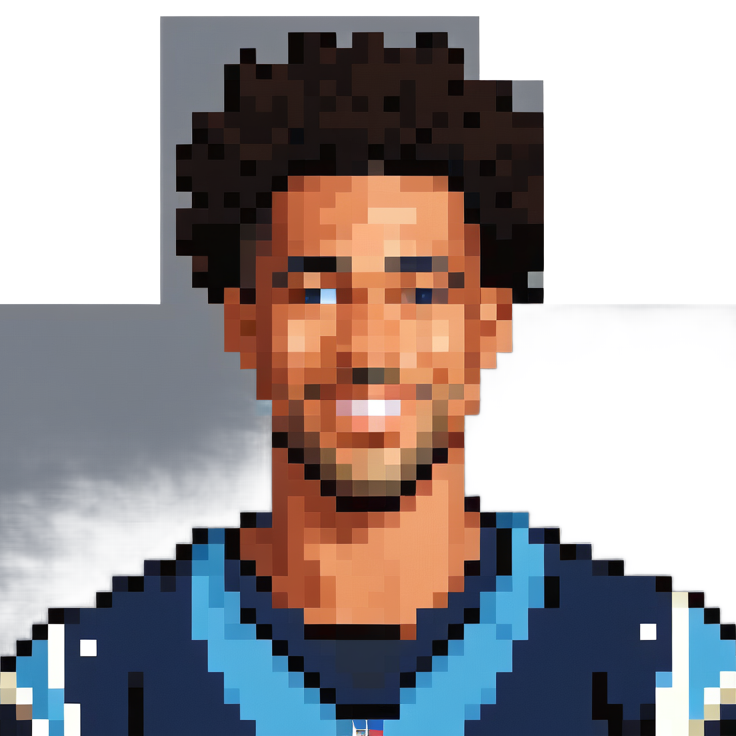
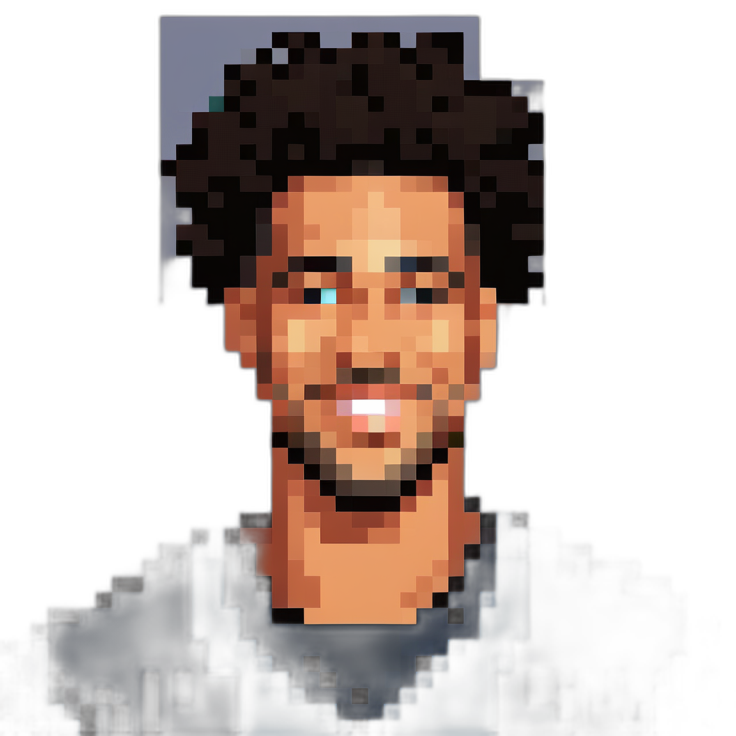
pipeline: expose --seed on ingest-pixel-headshots for re-rolls
Generation is stochastic; when a player's first run has artifacts
(bad bg removal, weird eyes) the workflow is to re-roll with a
different seed before changing the recipe. Defaults to 99 (the
prior hardcoded value) so existing assets stay reproducible.
Also re-rolls player 2997's headshot.

diff --git a/pipeline/src/nfl_grades/ingest/pixel_headshots.py b/pipeline/src/nfl_grades/ingest/pixel_headshots.py
@@ -266,15 +266,25 @@ def _to_url(replicate_output: object) -> str:
 # --- Replicate calls -------------------------------------------------------
 
 
+DEFAULT_SEED = 99
+
+
 def _stylize_and_remove_bg(
     replicate_client,
     source_url: str,
     position: str,
     team_abbr: str | None,
+    seed: int = DEFAULT_SEED,
 ) -> Image.Image:
     """One full Variant G generation: face-to-many → bg removal. Returns
     a square-cropped PIL Image at ~736x736 RGBA. Throttles before each
-    API call to stay under Replicate's free-tier rate limit."""
+    API call to stay under Replicate's free-tier rate limit.
+
+    `seed` is exposed because the model is stochastic — when a player's
+    initial generation has artifacts (bad bg removal, weird eyes), the
+    standard fix is to re-roll with a different seed before changing
+    the recipe.
+    """
     team_for_prompt = team_abbr or "NE"  # arbitrary fallback if team unknown
     prompt = _build_prompt(position, team_for_prompt)
 
@@ -290,7 +300,7 @@ def _stylize_and_remove_bg(
             "denoising_strength": 0.65,
             "instant_id_strength": 0.85,
             "control_depth_strength": 0.6,
-            "seed": 99,
+            "seed": seed,
         },
     )
     stylized_url = _to_url(stylized)
@@ -355,6 +365,7 @@ def run(
     qualified_only: bool = True,
     player_id: int | None = None,
     force: bool = False,
+    seed: int = DEFAULT_SEED,
 ) -> RunResult:
     """Generate pixel headshots for the targeted players. See module docstring."""
     import replicate  # imported here so the module is cheap to load even
@@ -413,7 +424,7 @@ def run(
             first_call = False
 
             try:
-                img = _stylize_and_remove_bg(replicate_client, t.source_url, t.position, t.team_abbr)
+                img = _stylize_and_remove_bg(replicate_client, t.source_url, t.position, t.team_abbr, seed=seed)
                 img.save(out_path)
                 _update_manifest_entry(manifest, t)
                 _save_manifest(manifest)

diff --git a/pipeline/src/nfl_grades/cli.py b/pipeline/src/nfl_grades/cli.py
@@ -296,12 +296,15 @@ def ingest_defensive_stats(season: int, refresh: bool) -> None:
               help="Single player by player_id. Overrides other filters.")
 @click.option("--force", is_flag=True, default=False,
               help="Regenerate even if PNG already exists.")
+@click.option("--seed", type=int, default=99, show_default=True,
+              help="face-to-many seed. Change to re-roll a player whose initial generation had artifacts.")
 def ingest_pixel_headshots(
     position: str | None,
     season: int,
     qualified_only: bool,
     player_id: int | None,
     force: bool,
+    seed: int,
 ) -> None:
     """Generate pixel-art headshots via Replicate (face-to-many + bg removal).
 
@@ -316,6 +319,7 @@ def ingest_pixel_headshots(
         qualified_only=qualified_only,
         player_id=player_id,
         force=force,
+        seed=seed,
     )
     click.echo(
         f"targeted={result.targeted} "
